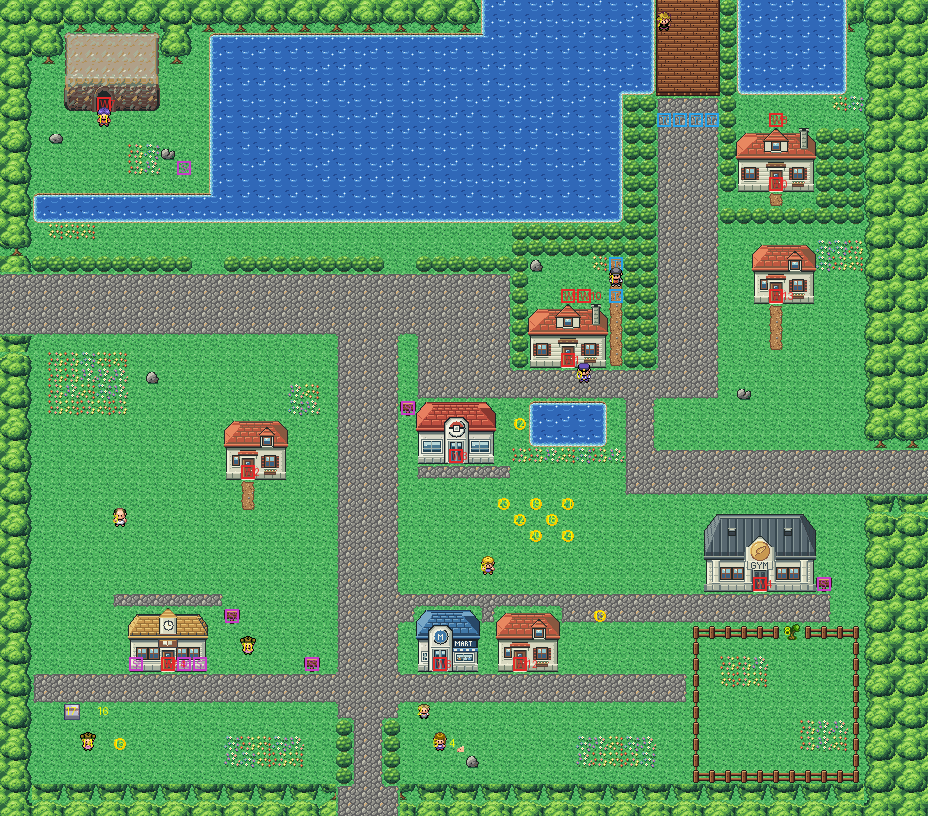
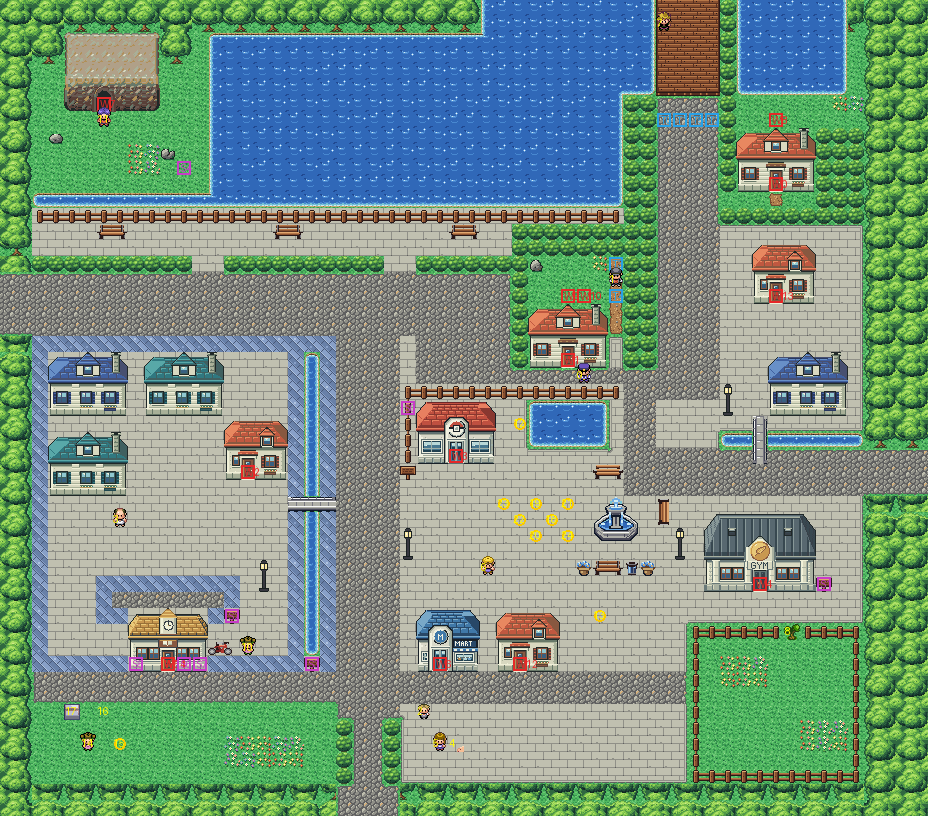
Cerulean: the docs (KR-93, ASSETS.md, its README and map)
Claude-Session: https://claude.ai/code/session_01XMJF17U18XtbfGGgKpeJmb

diff --git a/project/art/ASSETS.md b/project/art/ASSETS.md
@@ -22,7 +22,7 @@ There are two kinds of art:
 | Sunlit field rocks | `kit/field_rocks/` | v0.1 (its README still says "awaiting approval") | rocks (`o`) |
 | Rock & cliff pack | `kit/rock_cliff/` | revision 3.2 (made for Route 22) | cliffs, put together by `kit/cliffs.py`: Route 22, Pewter (with a higher tier on each cliff, KR-92), Routes 3, 4, 9, 10, 11, 25, Cinnabar's volcano, Route 20's Seafoam Islands |
 | Lawn, "Lush Emerald" | `kit/lawn/B_Lush_Emerald/` | option B | the lawn (`.`) everywhere |
-| Dressed-stone paving | `kit/paving/` | | paving (`p`): Pewter, Routes 2, 22 |
+| Dressed-stone paving | `kit/paving/` | | paving (`p`): Pewter, Cerulean, Routes 2, 22 |
 | Kanto Street Textures (Part A: the kit's streets) | `packs/streets_v0.3/` (`asphalt/`, `pavement/`, `crossing/`, `details/`), put together by `kit/streets.py` | v0.3 (made with another AI from `Street_Textures_v0.1_prompt.md`) | in the kit, last in its primary: the road (`+`, plain asphalt: the pack's lawn edges for asphalt aren't in the kit), the pavement on asphalt (`&`, its kerb) and on grass (`$`), joins to cobble and the dressed stone, the road's lines, zebra crossings and dropped kerbs, a manhole, storm drains, tactile paving and a tree grate (by name: `asphalt_dashed_H`, `crossing_road_EW`, `manhole`...). Saffron uses them (KR-90). Part B (brick, granite, the compass, planters, in its own palette `streets_city.gpl`) is for the cities' own tilesets: Saffron's plazas are its granite and compass (`saffron-concept/make_art.py`, bank 12); Celadon's Lucky Lane its brick and compass (`celadon-concept/make_art.py`, bank 10), with Celadon's own pavements (the kit's on two grounds, `walk()`); Pewter's sidewalks and paths its brick, in the Museum's stone and without kerbs (`pewter-concept/make_art.py`, bank 7, KR-92) |
 | Pond water, "Gentle ripples" | `kit/pond/` | option C | ponds (`~`, with lily pads `v` and reeds `r` drawn over it) |
 | Sea, "Staggered swells, reworked rocks" | `kit/sea/` | option B | the sea (`s`) and sea rocks (`q`, `Q`): Pallet, Route 25, Route 17 (its inside corners, the pack's `in_*` pieces, in the kit since Route 17). The sea is surfable and fishable (the pond's behaviour); the rocks are solid |
@@ -35,6 +35,7 @@ There are two kinds of art:
 | Route 2 Stage 2 assets | `route2-concept/buildings/` | v0.3 (the tile-budget export of the approved v0.2) | see below |
 | League Front Gate | `route22-concept/buildings/league_front_gate/` | | Pewter's Museum (Route 22 has the remakes' two-storey version, its door art this pack's) |
 | Kanto Buildings Remakes | `packs/buildings_v0.3/` (`buildings/<id>/`: png, door frames, json, palette; the pack's README, style guide and import notes beside them) | v0.3, approved 2026-10-27 (v0.2 with the Pokémon Mansion and the Power Plant made larger at Malik's request) | the 27 buildings Claude first drew in code or recoloured: see *The remakes* below |
+| Kanto Town Props | `packs/town_props_v0.1/` (one folder a piece: png and frames, json; previews, tile report, validation), put together by `kit/props.py` | v0.1 (made with another AI from `Town_Props_v0.1_prompt.md`) | street furniture in the kit's water (bank 1) and wood (bank 2) palettes, so a map needs no bank for them and takes only the pieces it places into its own tileset: a fountain (3x3, animated), benches (wood, four ways, and stone), a flower tub, a litter bin, a statue, a fingerpost, a picnic table, a bike rack, footbridges. Cerulean uses the fountain, benches, tubs, bin, bike rack and footbridges (KR-93) |
 
 The packs reused for buildings they weren't drawn for:
 
@@ -100,6 +101,8 @@ keeps its stand-in's size and doors, except the two marked. The maps load them f
 | Saffron's city blocks: three offices (tall, mid, narrow) and an arcade, none with a door | `saffron-concept/make_art.py` `city_designs()`, with `kit/buildings.py` `recompose()` and `recolour()` | offices 6×9, 6×6, 4×6; the arcade 4×4 | Silph Co.'s (bank 9, beige) and two recolours of it: sand (10), brick (11) | Saffron (`A` `F` `I` `J` `V` `C` `a`) | Silph Co.'s and the station's own 8×8 cells put back together without the emblem, the signs and the doors, so they cost no tiles; their identical blocks share a metatile (pae's `dedupe`). Saffron also has its own copies of the kit's Center, Mart and lamp on paving (`*_paved`: the kit's tiles, no new ones) |
 | Pewter's cottages without doors (slate, clay) | `pewter-concept/make_art.py` `cottage()`, with `kit/buildings.py` `recolour()` | 5×4 | the family house's, recoloured: slate (bank 11), clay (12) | Pewter (`1`, `2`) | the family house's own 8×8 cells, a window where its door was (no new tiles) |
 | Pewter's higher cliff tier | `pewter-concept/make_art.py` `fit()` (the kit's cliffs laid out twice) | the pack's | the cliffs' (bank 9) | Pewter (`K` in the plan; its face `3`–`9`) | the tier's face is the pack's, on the cliff top under it; the ledges' tops have the top's texture under their edge |
+| Cerulean's cottages without doors (blue, teal) | `cerulean-concept/make_art.py` `cottage()` (as Pewter's), with `kit/buildings.py` `recolour()` | 5×4 | the family house's, recoloured: blue (bank 11), teal (12) | Cerulean (`1`, `2`) | the family house's own 8×8 cells, a window where its door was (no new tiles) |
+| Cerulean's brick and fences on the paving | `cerulean-concept/make_art.py` | 1×1 | the street pack's brick in slate blues (bank 10); the kit's fence (wood) | Cerulean (`%`, `3`–`9`) | the brick without its kerbs; each fence shape its own block on the paving, one material with it |
 | The cycle track (Cycling Road's surface) | `route17-concept/route17_track.py` `piece()` | 1×1: 16 pieces by neighbours, inside corners, and paint (a lane line `+line`, an arrow downhill `+arrow`, a chequered line `+check`) where the plan has them | its own (`PAL`, bank 7): tarmac, a stone kerb, paint | Route 17 (`t`, `i`, `a`, `x`) | every piece is `MB_CYCLING_ROAD_PULL_DOWN` (the slope carries a rider down); a kerb wherever it meets anything but itself or the kit's cobbles |
 
 ## Replacing a piece
@@ -135,8 +138,8 @@ A replacement that keeps the piece's size, door blocks and palette bank drops in
 | Viridian Forest | 1 | | 6 |
 | Pewter | 381 | 0 (and 76 of its own) | 297 |
 | Route 3 | 145 | 26 (and 80 of its own) | 62 |
-| Route 4 | 147 | 54 (and 87 of its own) | 77 |
-| Cerulean | 255 | 0 | 122 |
+| Route 4 | 147 | 108 (and 87 of its own) | 77 |
+| Cerulean | 320 | 0 | 235 |
 | Route 24 | 1 | 0 | 1 |
 | Route 25 | 120 | 0 | 36 |
 | Route 5 | 200 | 0 | 84 |

diff --git a/project/docs/kanto-rebuild.md b/project/docs/kanto-rebuild.md
@@ -174,3 +174,4 @@ Found while rebuilding; nothing here is fixed unless it says so. Newest last wit
 | KR-90 | Saffron's streets are the kit's (KR-89): the avenues and lanes asphalt with a dashed line down the middle (broken where streets meet), the pavements kerbed (on grass where they meet a lawn, the forest or the pond), zebra crossings with dropped kerbs over the north-south avenue either side of the crossroads (the lamps at 27,27 and 32,27 moved two blocks south for them), four manholes, and the street trees, sign, lamps, Center and Mart on the pavement. The Gym square and the Silph plaza are granite from the pack's Part B (in its city palette, bank 12), the compass set in the Silph plaza (43,19). Every building's blocks are shared where identical (`dedupe`), so the city's tileset has room: 372 tiles of 384 (the granite and compass took 17), 315 metatiles of 384 (was 379). | Saffron | done |
 | KR-91 | Celadon's boulevard is asphalt (the kit's, KR-89) with a dashed line down its middle, kerbed pavements either side and zebra crossings two blocks wide where Lucky Lane meets it, three manholes and seven lamps; at its two ends, where the routes come in, it stays cobble (the kit's asphalt-to-cobble join between), so the joins with Routes 16 and 7 are as they were (Route 7 copies 22 tiles of Celadon's own pavements and brick for the strip it shows). Its pavements are one row between a lawn and the road, so they are Celadon's own: the kit's pavement with the lawn under the edge on one side and the asphalt under the kerb on the other. Lucky Lane is brick from the street pack's Part B (in its city palette, bank 10), a compass set in it before the Game Corner. Only the pieces the map shows are drawn: 32 tiles, the city's tileset 377 of 384 (metatiles 279). | Celadon | done |
 | KR-92 | Pewter is more of a mountain town. Each cliff has a higher tier above it (`K` in the plan, laid out on its own over the cliff it stands on): over the west step and the north-east its face stands on a ledge two blocks deep, behind the Museum straight on the cliff's face, a wall four blocks high. The west side is paved, no lawn: the kit's dressed stone (the Museum plaza's) from the forest to the main street, round the Gym, the cottages and the south-west house, which stand on it (the paving under their see-through blocks); their flowers, bushes and rocks are gone. Brick (the street pack's herringbone, Celadon's Lucky Lane's, drawn in the Museum's stone colours, bank 7, without its kerbs) is the accent: the sidewalks either side of the main street, the Gym's walk up to its door, the lane, the walk past the Center and the Mart, the plaza house's forecourt; it, the paving and the cobbles are one material (no kerb between them), and the lamps and the city sign stand in it. Three cottages without doors (the family house with a window where its door was, in slate and clay recolours, banks 11 and 12: no new tiles) and four lamps fill the gaps. The guides' walks are worked out again (`escort.py`). 381 tiles of 384 (3 left), 297 metatiles; Route 3's seam takes the tier it sees (26 tiles), Route 2's the brick by the exit (3). | Pewter | done |
+| KR-93 | Cerulean is paved: the kit's dressed stone in the streets' blocks, the buildings standing on it (the Center and the Mart the town's own copies), the lawn kept for the gardens, the yards, the Rocket's backyard, the shelter's field and the cave's island. West of the road south, Cerulean's slate-blue brick (the street pack's, without kerbs, bank 10) borders the paving; east of it the town is one grey square from the Center to the Gym (the walk before the Center and the road to the Gym paving too). Canals run by the roads south and east; a fence runs along the lake's shore behind a paved promenade (the island is reached by Surf from the bridge) and round the Center's north and west sides (the town sign moves to 25,29). Four cottages without doors (the family house in blue and teal, banks 11 and 12). The town's props are the other AI's Kanto Town Props v0.1 (`packs/town_props_v0.1`, from `Town_Props_v0.1_prompt.md`; `kit/props.py` puts the pieces a map places into its own tileset, in the kit's water and wood palettes): the fountain in the square, its water animated (four frames, every 16 game frames), benches facing it and along the promenade, flower tubs, a bin, a bike rack by the Bike Shop and a footbridge over each canal. 320 tiles of 384, 235 metatiles; Route 4's seam takes the paving it sees (108 tiles). | Cerulean | done |

diff --git a/project/art/cerulean-concept/README.md b/project/art/cerulean-concept/README.md
@@ -25,10 +25,18 @@ the bottom at columns 21–24. It has:
 Every warp keeps its number and the people their order. The Bike Shop's three warps are one door; the hole and the
 back door are lawn you step on and walk south from into the house (they aren't drawn yet).
 
+**The streets (KR-93).** The town is paved: the kit's dressed stone in the streets' blocks, every building standing
+on it (the Center and the Mart are the town's own copies), lawn only in the gardens, the yards, the backyard, the
+shelter's field and the island. West of the road south its slate-blue brick borders the paving; east of it the town is
+one grey square from the Center to the Gym. Canals run by the roads south and east, each with a footbridge; a fence
+runs along the lake behind the promenade (the island is reached by Surf from the bridge) and round the Center's north
+and west sides. Four cottages without doors stand in the west and east. The fountain in the square, the benches, tubs,
+bin and bike rack are Kanto Town Props v0.1 (`../packs/town_props_v0.1`, `../kit/props.py`); the fountain's water
+animates.
+
 Its tileset's palettes: bank 7 the Gym and the Bike Shop, bank 9 the houses and the cave mouth (drawn in the houses'
-palette, the two colours they don't use being the cave's), bank 8 the kit's plants. 10–12 and the primary's unused
-bank 4 hold the seams to Routes 5, 9 and 24, which aren't rebuilt yet; Route 5's strip is drawn a little off in
-colour (one of its palettes in its nearest colours) until it is.
+palette, the two colours they don't use being the cave's), bank 8 the kit's plants, 10 the brick, 11 and 12 the
+cottages; the props are drawn in the kit's water and wood palettes (banks 1 and 2). 320 of its 384 tiles are used.
 
 `make_art.py` checks the town's rules on the map it builds: only the four exits open onto the edges; with the tree
 standing, the Rocket and his triggers in his way and the lass and her Slowbro in the neck, the town is everything but
